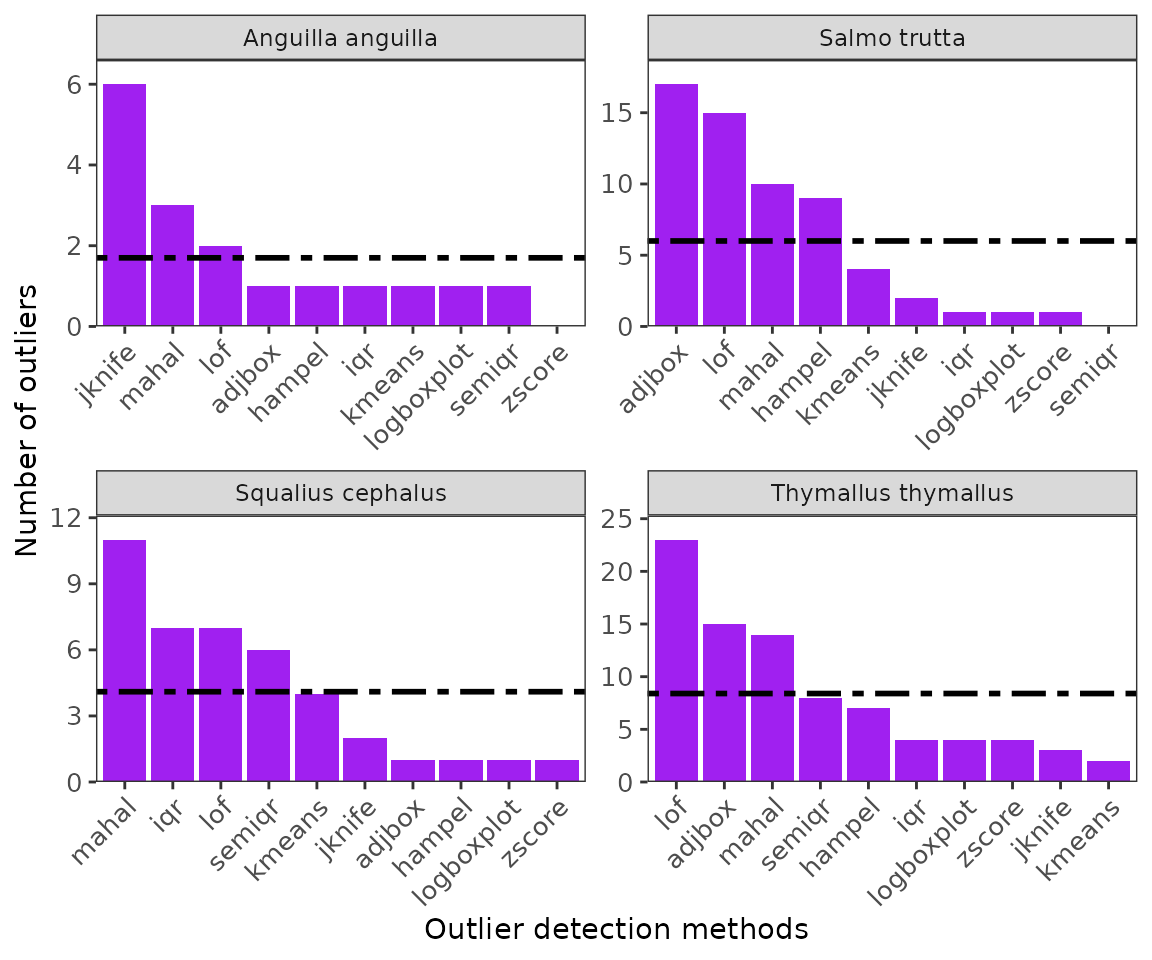
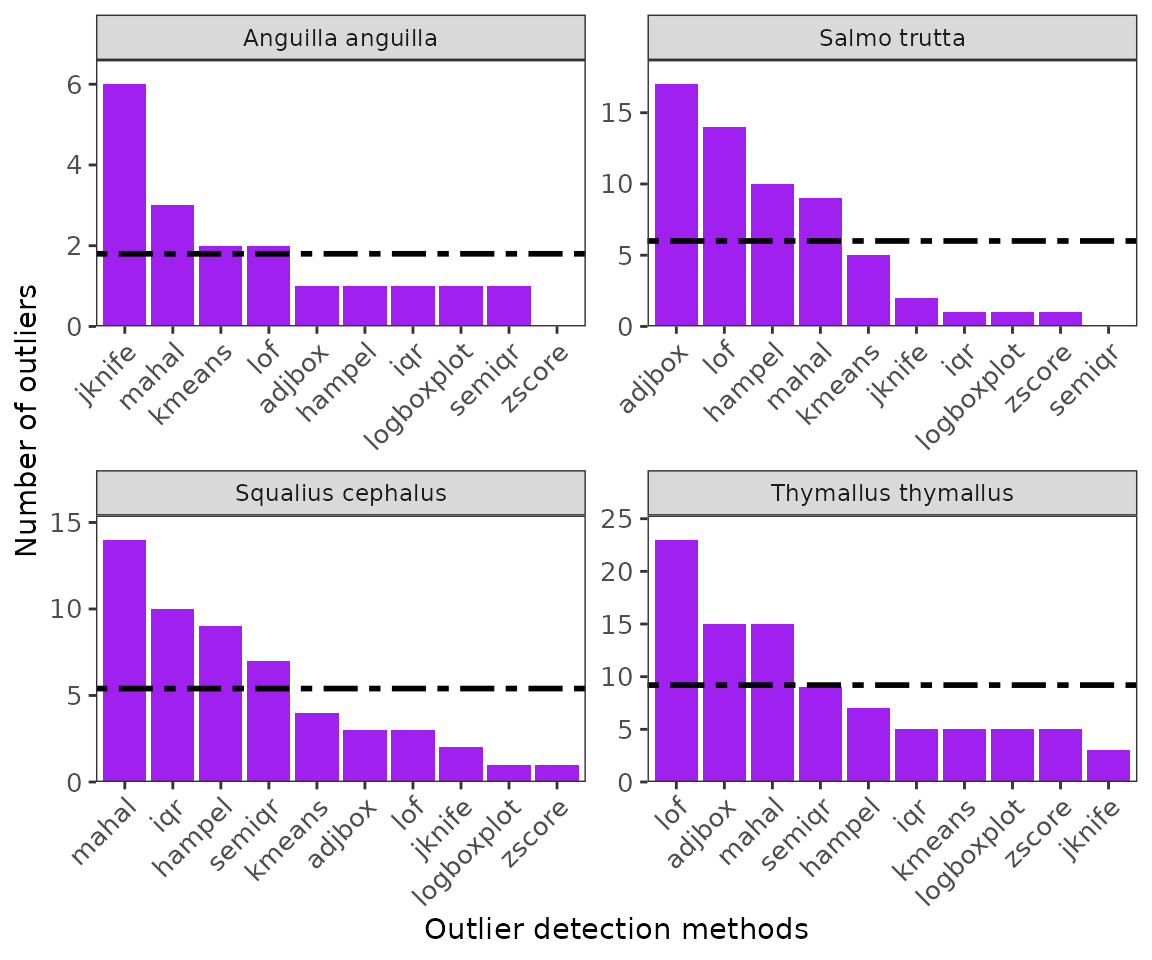
Deploying to gh-pages from @ AnthonyBasooma/specleanr@96b74c776f47c382cdc9eb1f61844b1a56057420 🚀

diff --git a/articles/eOutlier.html b/articles/eOutlier.html
@@ -367,77 +367,77 @@ identifying the optimal threshold.</p>
 <span><span class="va">multspecies_clean</span> <span class="op">&lt;-</span> <span class="fu"><a href="../reference/extract_clean_data.html">extract_clean_data</a></span><span class="op">(</span>refdata <span class="op">=</span> <span class="va">multipreclened</span>, outliers <span class="op">=</span> <span class="va">multioutliers</span>, </span>
 <span>                                        loess <span class="op">=</span>  <span class="cn">TRUE</span><span class="op">)</span></span>
 <span><span class="fu"><a href="https://rdrr.io/r/utils/head.html" class="external-link">head</a></span><span class="op">(</span><span class="va">multspecies_clean</span><span class="op">)</span></span>
-<span><span class="co">#&gt;       bio1      bio2     bio3     bio4     bio5     bio6     bio7      bio8</span></span>
-<span><span class="co">#&gt; 1 6.293614  8.755938 31.96181 690.1050 20.90625 -6.48875 27.39500  7.375333</span></span>
-<span><span class="co">#&gt; 2 6.023146 10.469084 36.15546 698.5480 21.37100 -7.58475 28.95575 12.989917</span></span>
-<span><span class="co">#&gt; 3 8.093719  8.563396 32.36844 682.8456 22.54375 -3.91225 26.45600 16.554874</span></span>
-<span><span class="co">#&gt; 4 6.770688  8.237541 32.67342 653.4917 20.17375 -5.03800 25.21175 14.798875</span></span>
-<span><span class="co">#&gt; 5 4.356198  8.618521 32.93503 664.5812 18.24000 -7.92825 26.16825 12.529167</span></span>
-<span><span class="co">#&gt; 6 7.819083  8.406333 32.15458 679.0140 22.02600 -4.11750 26.14350 16.236708</span></span>
+<span><span class="co">#&gt;       bio1     bio2     bio3     bio4     bio5     bio6     bio7      bio8</span></span>
+<span><span class="co">#&gt; 1 6.293614 8.755938 31.96181 690.1050 20.90625 -6.48875 27.39500  7.375333</span></span>
+<span><span class="co">#&gt; 2 6.090500 8.973458 32.94947 688.3300 20.51100 -6.72300 27.23400 14.508500</span></span>
+<span><span class="co">#&gt; 3 8.093719 8.563396 32.36844 682.8456 22.54375 -3.91225 26.45600 16.554874</span></span>
+<span><span class="co">#&gt; 4 7.819083 8.406333 32.15458 679.0140 22.02600 -4.11750 26.14350 16.236708</span></span>
+<span><span class="co">#&gt; 5 7.747698 8.135062 31.36379 680.2980 22.05825 -3.87950 25.93775 16.174000</span></span>
+<span><span class="co">#&gt; 6 4.356198 8.618521 32.93503 664.5812 18.24000 -7.92825 26.16825 12.529167</span></span>
 <span><span class="co">#&gt;         bio9    bio10      bio11 bio12 bio13 bio14    bio15 bio16 bio17 bio18</span></span>
 <span><span class="co">#&gt; 1 -1.1756251 14.80313 -2.0642917  2118   241   105 21.73814   663   379   530</span></span>
-<span><span class="co">#&gt; 2 -1.6493334 14.52096 -2.6731668   825    92    48 19.36208   251   152   239</span></span>
+<span><span class="co">#&gt; 2 -2.3024168 14.50850 -2.3024168  1078   151    55 34.46044   405   179   405</span></span>
 <span><span class="co">#&gt; 3  1.0112917 16.55487 -0.2026250   902   111    48 29.86472   322   151   322</span></span>
-<span><span class="co">#&gt; 4 -0.1399583 14.79887 -1.1001667  1425   191    78 30.79005   528   268   528</span></span>
-<span><span class="co">#&gt; 5 -3.6311667 12.52917 -3.6311667  1287   170    67 30.58820   463   219   463</span></span>
-<span><span class="co">#&gt; 6  0.7327917 16.23671 -0.4094166   969   121    50 31.11297   351   161   351</span></span>
-<span><span class="co">#&gt;   bio19        x        y       groups</span></span>
-<span><span class="co">#&gt; 1   412 13.91667 46.25000 Salmo trutta</span></span>
-<span><span class="co">#&gt; 2   163 20.25000 43.25000 Salmo trutta</span></span>
-<span><span class="co">#&gt; 3   159 10.91667 48.25000 Salmo trutta</span></span>
-<span><span class="co">#&gt; 4   274 13.41667 47.75000 Salmo trutta</span></span>
-<span><span class="co">#&gt; 5   219 15.08333 47.58333 Salmo trutta</span></span>
-<span><span class="co">#&gt; 6   167 10.91667 48.08333 Salmo trutta</span></span>
+<span><span class="co">#&gt; 4  0.7327917 16.23671 -0.4094166   969   121    50 31.11297   351   161   351</span></span>
+<span><span class="co">#&gt; 5  0.6825417 16.17400 -0.5183750   938   120    47 31.38235   337   152   337</span></span>
+<span><span class="co">#&gt; 6 -3.6311667 12.52917 -3.6311667  1287   170    67 30.58820   463   219   463</span></span>
+<span><span class="co">#&gt;   bio19         x        y       groups</span></span>
+<span><span class="co">#&gt; 1   412 13.916667 46.25000 Salmo trutta</span></span>
+<span><span class="co">#&gt; 2   179 14.916667 47.75000 Salmo trutta</span></span>
+<span><span class="co">#&gt; 3   159 10.916667 48.25000 Salmo trutta</span></span>
+<span><span class="co">#&gt; 4   167 10.916667 48.08333 Salmo trutta</span></span>
+<span><span class="co">#&gt; 5   158  9.916667 48.08333 Salmo trutta</span></span>
+<span><span class="co">#&gt; 6   219 15.083333 47.58333 Salmo trutta</span></span>
 <span></span>
 <span><span class="va">ttclean</span><span class="op">&lt;-</span> <span class="fu"><a href="../reference/extract_clean_data.html">extract_clean_data</a></span><span class="op">(</span>refdata <span class="op">=</span> <span class="va">ttrefdata</span>, outliers <span class="op">=</span> <span class="va">ttoutlier</span>, loess <span class="op">=</span> <span class="cn">TRUE</span><span class="op">)</span></span>
 <span><span class="fu"><a href="https://rdrr.io/r/base/dim.html" class="external-link">dim</a></span><span class="op">(</span><span class="va">ttclean</span><span class="op">)</span></span>
-<span><span class="co">#&gt; [1] 99 21</span></span>
+<span><span class="co">#&gt; [1] 98 21</span></span>
 <span><span class="fu"><a href="https://rdrr.io/r/utils/head.html" class="external-link">head</a></span><span class="op">(</span><span class="va">ttclean</span><span class="op">)</span></span>
 <span><span class="co">#&gt;       bio1     bio2     bio3     bio4     bio5     bio6     bio7     bio8</span></span>
-<span><span class="co">#&gt; 1 5.290083 8.268625 33.26678 635.7107 18.46425 -6.39125 24.85550 13.10142</span></span>
-<span><span class="co">#&gt; 2 8.532615 9.764146 33.03609 746.0073 23.86175 -5.69425 29.55600 17.59192</span></span>
-<span><span class="co">#&gt; 3 8.340094 8.558521 31.95564 691.9463 23.15800 -3.62450 26.78250 15.38925</span></span>
-<span><span class="co">#&gt; 4 7.596385 8.438188 30.85853 724.7678 22.51675 -4.82800 27.34475 16.40075</span></span>
-<span><span class="co">#&gt; 5 8.130990 9.155687 33.54192 693.5986 22.50525 -4.79100 27.29625 16.58138</span></span>
-<span><span class="co">#&gt; 6 5.290083 8.268625 33.26678 635.7107 18.46425 -6.39125 24.85550 13.10142</span></span>
-<span><span class="co">#&gt;         bio9    bio10       bio11 bio12 bio13 bio14    bio15 bio16 bio17 bio18</span></span>
-<span><span class="co">#&gt; 1 -1.4955000 13.10142 -2.34583330  1440   193    76 31.47408   536   261   536</span></span>
-<span><span class="co">#&gt; 2 -0.7618751 17.59192 -0.76187509   908   129    29 44.80352   372   110   372</span></span>
-<span><span class="co">#&gt; 3  1.1871250 16.93192 -0.08562502   789    97    44 28.08648   274   136   274</span></span>
-<span><span class="co">#&gt; 4 -0.1437499 16.40075 -1.37524998   575    89    24 47.36458   244    76   244</span></span>
-<span><span class="co">#&gt; 5  0.9313333 16.58138 -0.41912505  1307   174    69 33.66177   499   233   499</span></span>
-<span><span class="co">#&gt; 6 -1.4955000 13.10142 -2.34583330  1440   193    76 31.47408   536   261   536</span></span>
+<span><span class="co">#&gt; 1 8.532615 9.764146 33.03609 746.0073 23.86175 -5.69425 29.55600 17.59192</span></span>
+<span><span class="co">#&gt; 2 8.130990 9.155687 33.54192 693.5986 22.50525 -4.79100 27.29625 16.58138</span></span>
+<span><span class="co">#&gt; 3 8.688948 8.375896 30.39067 733.9625 23.53350 -4.02725 27.56075 17.66537</span></span>
+<span><span class="co">#&gt; 4 5.290083 8.268625 33.26678 635.7107 18.46425 -6.39125 24.85550 13.10142</span></span>
+<span><span class="co">#&gt; 5 5.290083 8.268625 33.26678 635.7107 18.46425 -6.39125 24.85550 13.10142</span></span>
+<span><span class="co">#&gt; 6 6.528552 8.742270 33.71912 653.1016 20.44950 -5.47725 25.92675 14.54658</span></span>
+<span><span class="co">#&gt;         bio9    bio10      bio11 bio12 bio13 bio14    bio15 bio16 bio17 bio18</span></span>
+<span><span class="co">#&gt; 1 -0.7618751 17.59192 -0.7618751   908   129    29 44.80352   372   110   372</span></span>
+<span><span class="co">#&gt; 2  0.9313333 16.58138 -0.4191251  1307   174    69 33.66177   499   233   499</span></span>
+<span><span class="co">#&gt; 3  1.0729584 17.66537 -0.3428333  1053   134    61 24.62582   361   206   361</span></span>
+<span><span class="co">#&gt; 4 -1.4955000 13.10142 -2.3458333  1440   193    76 31.47408   536   261   536</span></span>
+<span><span class="co">#&gt; 5 -1.4955000 13.10142 -2.3458333  1440   193    76 31.47408   536   261   536</span></span>
+<span><span class="co">#&gt; 6 -1.3728750 14.54658 -1.3728750  1083   151    50 38.03495   426   166   426</span></span>
 <span><span class="co">#&gt;   bio19        x        y</span></span>
-<span><span class="co">#&gt; 1   266 13.25000 47.58333</span></span>
-<span><span class="co">#&gt; 2   110 15.25000 47.08333</span></span>
-<span><span class="co">#&gt; 3   145 10.08333 48.41667</span></span>
-<span><span class="co">#&gt; 4    80 16.91667 49.91667</span></span>
-<span><span class="co">#&gt; 5   234 13.08333 47.75000</span></span>
-<span><span class="co">#&gt; 6   266 13.25000 47.58333</span></span>
+<span><span class="co">#&gt; 1   110 15.25000 47.08333</span></span>
+<span><span class="co">#&gt; 2   234 13.08333 47.75000</span></span>
+<span><span class="co">#&gt; 3   207 13.91667 48.08333</span></span>
+<span><span class="co">#&gt; 4   266 13.25000 47.58333</span></span>
+<span><span class="co">#&gt; 5   266 13.25000 47.58333</span></span>
+<span><span class="co">#&gt; 6   166 11.41667 47.25000</span></span>
 <span></span>
 <span></span>
 <span><span class="va">labeldata</span> <span class="op">&lt;-</span> <span class="fu"><a href="../reference/classify_data.html">classify_data</a></span><span class="op">(</span>refdata <span class="op">=</span> <span class="va">multipreclened</span>, outliers <span class="op">=</span> <span class="va">multioutliers</span><span class="op">)</span></span>
 <span><span class="fu"><a href="https://rdrr.io/r/utils/head.html" class="external-link">head</a></span><span class="op">(</span><span class="va">labeldata</span><span class="op">)</span></span>
 <span><span class="co">#&gt;        bio1     bio2     bio3     bio4     bio5     bio6     bio7     bio8</span></span>
-<span><span class="co">#&gt; 6  7.819083 8.406333 32.15458 679.0140 22.02600 -4.11750 26.14350 16.23671</span></span>
-<span><span class="co">#&gt; 10 6.090500 8.973458 32.94947 688.3300 20.51100 -6.72300 27.23400 14.50850</span></span>
-<span><span class="co">#&gt; 11 8.149062 8.922417 32.77950 698.9550 22.49275 -4.72675 27.21950 16.66454</span></span>
-<span><span class="co">#&gt; 12 5.519271 8.059958 32.46808 637.3926 18.68325 -6.14100 24.82425 13.31675</span></span>
-<span><span class="co">#&gt; 13 8.130990 9.155687 33.54192 693.5986 22.50525 -4.79100 27.29625 16.58138</span></span>
+<span><span class="co">#&gt; 4  7.819083 8.406333 32.15458 679.0140 22.02600 -4.11750 26.14350 16.23671</span></span>
+<span><span class="co">#&gt; 8  4.920063 8.054250 33.13006 620.0639 17.83550 -6.47550 24.31100 12.53700</span></span>
+<span><span class="co">#&gt; 9  8.149062 8.922417 32.77950 698.9550 22.49275 -4.72675 27.21950 16.66454</span></span>
+<span><span class="co">#&gt; 10 5.519271 8.059958 32.46808 637.3926 18.68325 -6.14100 24.82425 13.31675</span></span>
+<span><span class="co">#&gt; 11 8.130990 9.155687 33.54192 693.5986 22.50525 -4.79100 27.29625 16.58138</span></span>
 <span><span class="co">#&gt; 14 4.414302 7.574229 32.06125 606.7263 17.16025 -6.46400 23.62425 11.89929</span></span>
 <span><span class="co">#&gt;          bio9    bio10      bio11 bio12 bio13 bio14    bio15 bio16 bio17 bio18</span></span>
-<span><span class="co">#&gt; 6   0.7327917 16.23671 -0.4094166   969   121    50 31.11297   351   161   351</span></span>
-<span><span class="co">#&gt; 10 -2.3024168 14.50850 -2.3024168  1078   151    55 34.46044   405   179   405</span></span>
-<span><span class="co">#&gt; 11  0.8570418 16.66454 -0.4938749  1223   159    66 32.25150   460   222   460</span></span>
-<span><span class="co">#&gt; 12 -1.2837082 13.31675 -2.1408334  1303   177    70 33.05493   494   233   494</span></span>
-<span><span class="co">#&gt; 13  0.9313333 16.58138 -0.4191251  1307   174    69 33.66177   499   233   499</span></span>
+<span><span class="co">#&gt; 4   0.7327917 16.23671 -0.4094166   969   121    50 31.11297   351   161   351</span></span>
+<span><span class="co">#&gt; 8  -1.7382917 12.53700 -2.4977083  1409   188    76 31.33461   524   257   524</span></span>
+<span><span class="co">#&gt; 9   0.8570418 16.66454 -0.4938749  1223   159    66 32.25150   460   222   460</span></span>
+<span><span class="co">#&gt; 10 -1.2837082 13.31675 -2.1408334  1303   177    70 33.05493   494   233   494</span></span>
+<span><span class="co">#&gt; 11  0.9313333 16.58138 -0.4191251  1307   174    69 33.66177   499   233   499</span></span>
 <span><span class="co">#&gt; 14 -2.7298751 11.89929 -2.7298751  1289   169    67 33.19698   486   219   486</span></span>
 <span><span class="co">#&gt;    bio19        x        y       label       groups</span></span>
-<span><span class="co">#&gt; 6    167 10.91667 48.08333 not outlier Salmo trutta</span></span>
-<span><span class="co">#&gt; 10   179 14.91667 47.75000 not outlier Salmo trutta</span></span>
-<span><span class="co">#&gt; 11   222 13.08333 47.91667 not outlier Salmo trutta</span></span>
-<span><span class="co">#&gt; 12   236 12.58333 47.58333 not outlier Salmo trutta</span></span>
-<span><span class="co">#&gt; 13   234 13.08333 47.75000 not outlier Salmo trutta</span></span>
+<span><span class="co">#&gt; 4    167 10.91667 48.08333 not outlier Salmo trutta</span></span>
+<span><span class="co">#&gt; 8    261 12.91667 47.58333 not outlier Salmo trutta</span></span>
+<span><span class="co">#&gt; 9    222 13.08333 47.91667 not outlier Salmo trutta</span></span>
+<span><span class="co">#&gt; 10   236 12.58333 47.58333 not outlier Salmo trutta</span></span>
+<span><span class="co">#&gt; 11   234 13.08333 47.75000 not outlier Salmo trutta</span></span>
 <span><span class="co">#&gt; 14   219 11.08333 47.41667 not outlier Salmo trutta</span></span></code></pre></div>
 <p><strong>References</strong> 1. Wieczorek, J., Bloom, D., Guralnick,
 R., Blum, S., Döring, M., Giovanni, R., Robertson, T., &amp; Vieglais,
